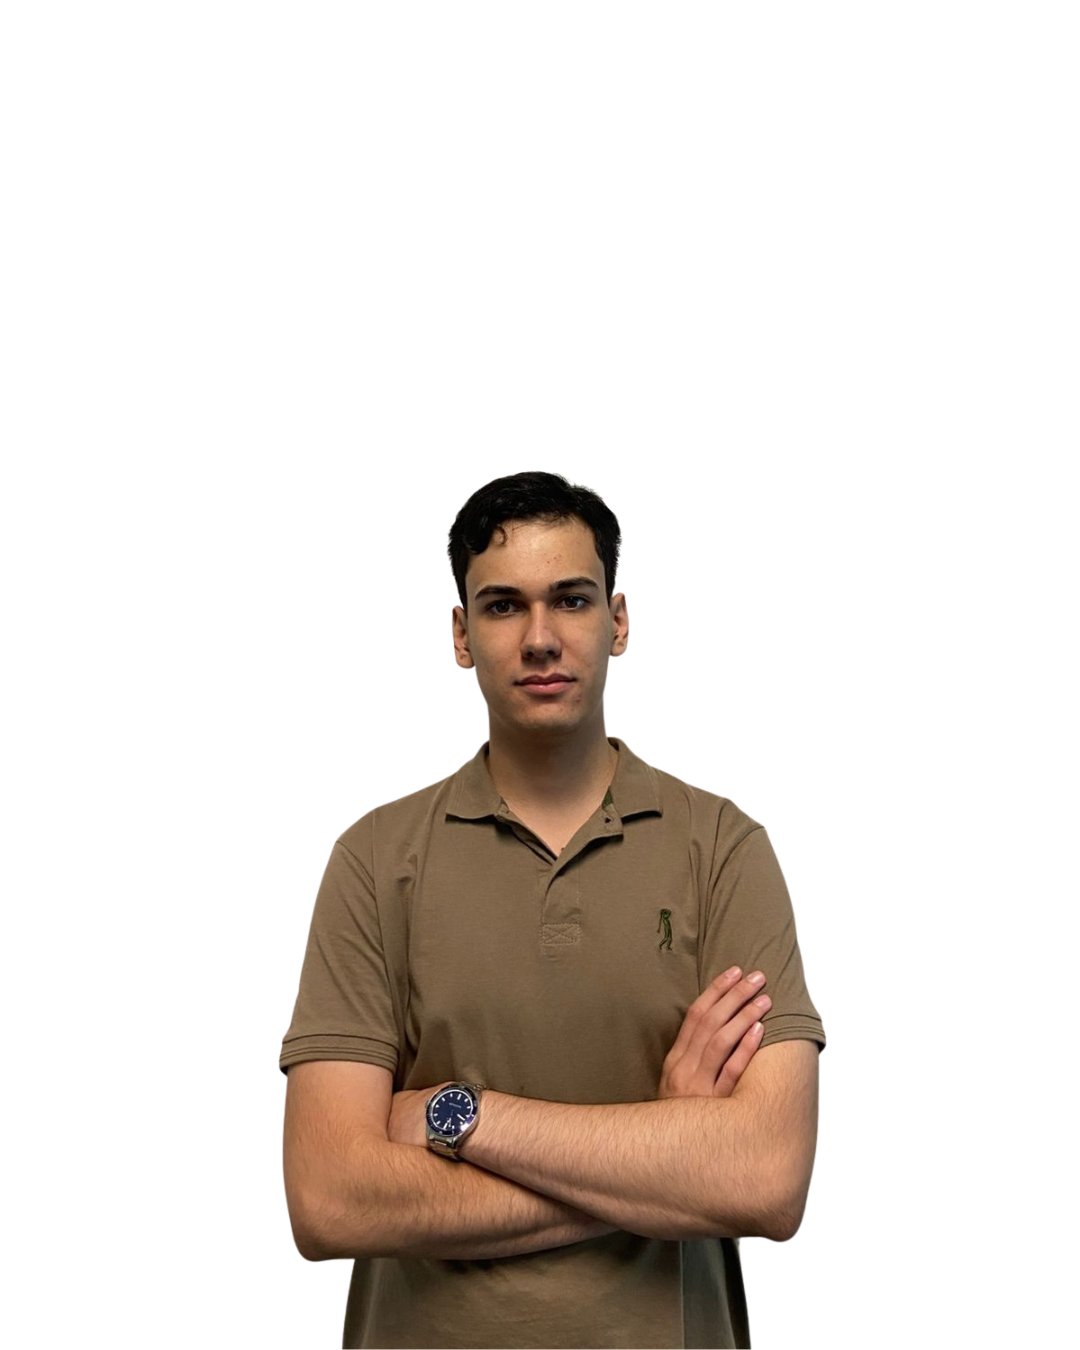
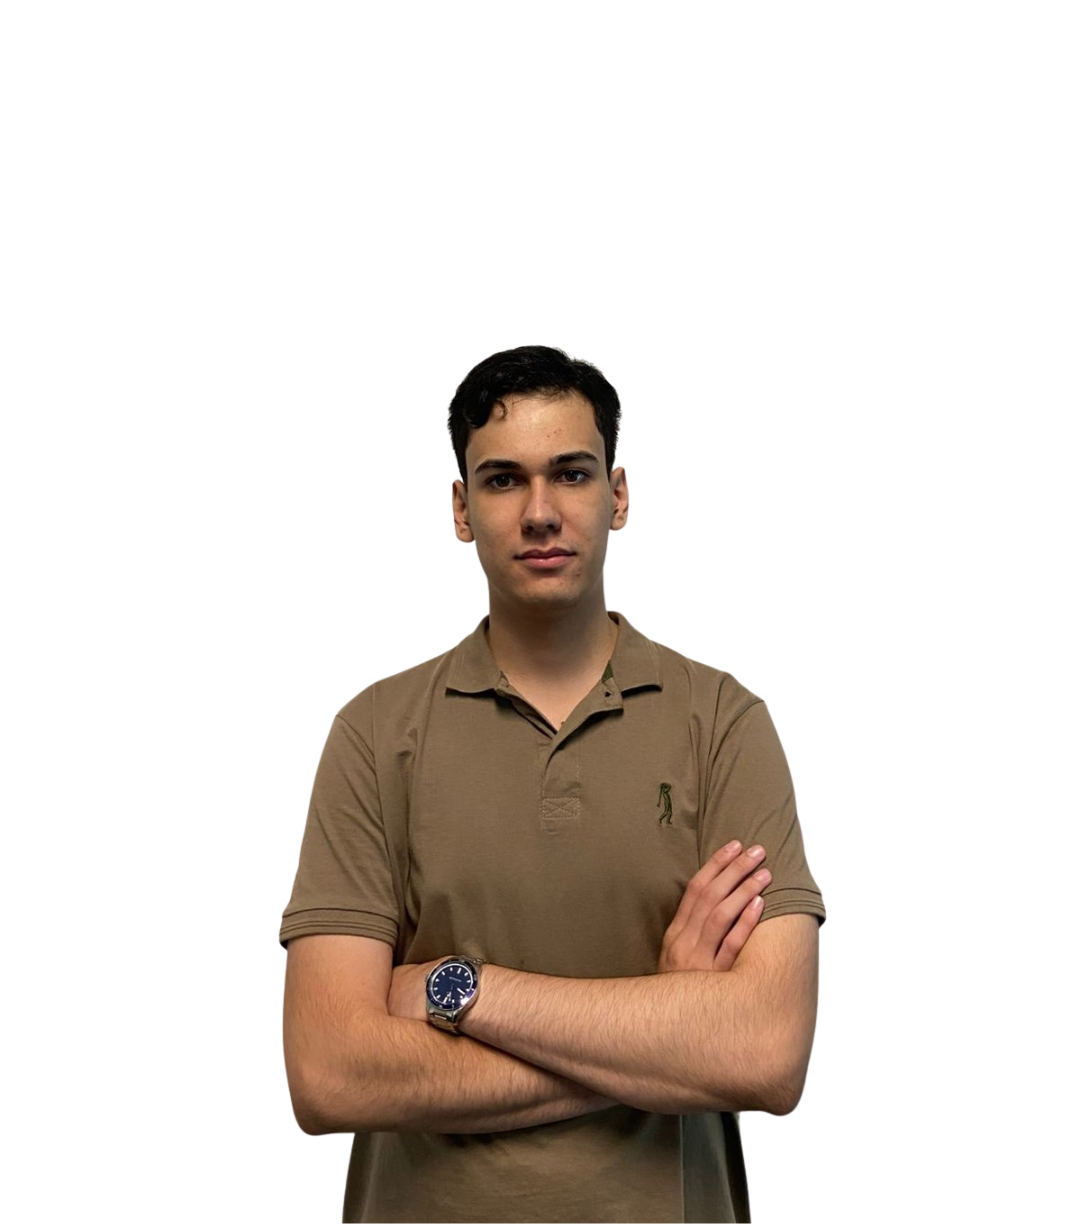
Correções

Changed region(s): [[0.2444, 0.2794, 0.7639, 0.9624]]

diff --git a/src/app/pages/home/home.html b/src/app/pages/home/home.html
@@ -4,7 +4,7 @@
         <a href="/" class="logo d-flex align-items-center">
             <!-- Uncomment the line below if you also wish to use an image logo -->
             <!-- <img src="assets/img/logo.png" alt=""> -->
-            <h1 class="sitename">ProDesk</h1>
+            <h1 class="sitename">ProDesk Coworking</h1>
         </a>
 
         <nav id="navmenu" class="navmenu">
@@ -390,7 +390,7 @@
                 <!-- Integrante 1 -->
                 <div class="col-xl-3 col-md-6 d-flex" data-aos="fade-up" data-aos-delay="100">
                     <div class="member">
-                        <img src="assets/img/abrao.png" class="img-fluid rounded-3" alt="Integrante 1">
+                        <img src="assets/img/abrao.png" class="img-fluid rounded-3" alt="Integrante 1" width="336px" height="420px">
                         <div class="member-info text-center mt-3">
                             <h4>Abrão Trevizan</h4>
                             <span>Gestor do Projeto</span>
@@ -416,7 +416,7 @@
                 <!-- Integrante 2 -->
                 <div class="col-xl-3 col-md-6 d-flex" data-aos="fade-up" data-aos-delay="400">
                     <div class="member">
-                        <img src="assets/Felipe.png" class="img-fluid rounded-3" alt="Integrante 4">
+                        <img src="assets/Felipe.png" class="img-fluid rounded-3" alt="Integrante 2" width="336px" height="420px">
                         <div class="member-info text-center mt-3">
                             <h4>Felipe Pontes</h4>
                             <span>Analista de Requisitos</span>
@@ -441,7 +441,7 @@
                 <!-- Integrante 3 -->
                 <div class="col-xl-3 col-md-6 d-flex" data-aos="fade-up" data-aos-delay="200">
                     <div class="member">
-                        <img src="assets/img/gabriel.png" class="img-fluid rounded-3" alt="Integrante 2">
+                        <img src="assets/gabriel.png" class="img-fluid rounded-3" alt="Integrante 3" width="336px" height="420px">
                         <div class="member-info text-center mt-3">
                             <h4>Gabriel Alesiunas</h4>
                             <span>Desenvolvedor Back End</span>
@@ -467,7 +467,7 @@
                 <!-- Integrante 4 -->
                 <div class="col-xl-3 col-md-6 d-flex" data-aos="fade-up" data-aos-delay="400">
                     <div class="member">
-                        <img src="assets/Henrique.png" class="img-fluid rounded-3" alt="Integrante 4">
+                        <img src="assets/Henrique.png" class="img-fluid rounded-3" alt="Integrante 4" width="336px" height="420px">
                         <div class="member-info text-center mt-3">
                             <h4>Henrique Albano</h4>
                             <span>Dev Front-End</span>
@@ -493,7 +493,7 @@
                 <!-- Integrante 5 -->
                 <div class="col-xl-3 col-md-6 d-flex" data-aos="fade-up" data-aos-delay="300">
                     <div class="member">
-                        <img src="assets/img/ryan.png" class="img-fluid rounded-3" alt="Integrante 3">
+                        <img src="assets/img/ryan.png" class="img-fluid rounded-3" alt="Integrante 5" width="336px" height="420px">
                         <div class="member-info text-center mt-3">
                             <h4>Ryan Rezani</h4>
                             <span>Design</span>

diff --git a/backend/server.js b/backend/server.js
@@ -4,7 +4,6 @@ const cors = require('cors');
 const bcrypt = require('bcrypt');
 const multer = require('multer');
 const path = require('path');
-
 const app = express();
 
 // Configurações CORS
@@ -196,19 +195,43 @@ app.put('/api/usuarios/:id/senha', (req, res) => {
 // ========================
 // Rotas de cartões
 // ========================
-app.post('/api/usuarios/:id/cartoes', (req, res) => {
+app.post('/api/usuarios/:id/cartoes', async (req, res) => {
   const { id } = req.params;
   const { numero, nome, validade, cvv } = req.body;
 
-  if (!numero || !nome || !validade || !cvv) return res.status(400).json({ error: 'Todos os campos do cartão são obrigatórios.' });
+  if (!numero || !nome || !validade || !cvv) {
+    return res.status(400).json({ error: 'Todos os campos do cartão são obrigatórios.' });
+  }
 
-  const query = 'INSERT INTO cartoes (usuario_id, numero, nome, validade, cvv) VALUES (?, ?, ?, ?, ?)';
-  db.query(query, [id, numero, nome, validade, cvv], (err, result) => {
-    if (err) return res.status(500).json({ error: 'Erro ao adicionar cartão.' });
-    res.status(201).json({ message: 'Cartão adicionado com sucesso!' });
-  });
+  try {
+    // 🔐 HASH (não reversível)
+    const numeroHash = await bcrypt.hash(numero, 10);
+    const nomeHash = await bcrypt.hash(nome, 10);
+
+    // ✅ Últimos 4 dígitos (pra exibir depois)
+    const ultimos4 = numero.slice(-4);
+
+    // ❌ NÃO salvar CVV
+    const query = `
+      INSERT INTO cartoes (usuario_id, numero_hash, nome_hash, validade, ultimos4)
+      VALUES (?, ?, ?, ?, ?)
+    `;
+
+    db.query(query, [id, numeroHash, nomeHash, validade, ultimos4], (err) => {
+      if (err) return res.status(500).json({ error: 'Erro ao adicionar cartão.' });
+
+      res.status(201).json({ message: 'Cartão adicionado com segurança!' });
+    });
+
+  } catch (error) {
+    res.status(500).json({ error: 'Erro ao processar dados do cartão.' });
+  }
 });
 
+
+// ========================
+// Remover cartão
+// ========================
 app.delete('/api/usuarios/:id/cartoes/:cartaoId', (req, res) => {
   const { id, cartaoId } = req.params;
 
@@ -216,16 +239,35 @@ app.delete('/api/usuarios/:id/cartoes/:cartaoId', (req, res) => {
   db.query(query, [cartaoId, id], (err, result) => {
     if (err) return res.status(500).json({ error: 'Erro ao remover cartão.' });
     if (result.affectedRows === 0) return res.status(404).json({ error: 'Cartão não encontrado.' });
+
     res.json({ message: 'Cartão removido com sucesso!' });
   });
 });
 
+
+// ========================
+// Listar cartões
+// ========================
 app.get('/api/usuarios/:id/cartoes', (req, res) => {
   const { id } = req.params;
-  const query = 'SELECT id, numero, nome AS titular, validade FROM cartoes WHERE usuario_id = ?';
+
+  const query = `
+    SELECT id, ultimos4, validade
+    FROM cartoes
+    WHERE usuario_id = ?
+  `;
+
   db.query(query, [id], (err, results) => {
     if (err) return res.status(500).json({ error: 'Erro ao buscar cartões.' });
-    res.json(results);
+
+    // 🔒 Retorno seguro (mascarado)
+    const cartoes = results.map(c => ({
+      id: c.id,
+      numero: `**** **** **** ${c.ultimos4}`,
+      validade: c.validade
+    }));
+
+    res.json(cartoes);
   });
 });
 

diff --git a/src/app/pages/locatorio/locatorio.html b/src/app/pages/locatorio/locatorio.html
@@ -1,7 +1,9 @@
 <link rel="stylesheet" href="https://cdnjs.cloudflare.com/ajax/libs/font-awesome/6.4.0/css/all.min.css" />
 <div class="page-container">
   <header class="menu">
-    <h1>ProDesk Coworking</h1>
+    <a routerLink="/locatorio" class="logo d-flex align-items-center">
+       <h1 class="sitename" >ProDesk Coworking</h1>
+    </a>
     <nav>
       <a routerLink="/locatorio" routerLinkActive="ativo">Espaços</a>
       <a routerLink="/reserva" routerLinkActive="ativo">Reservas</a>

diff --git a/src/app/pages/contato/contato.html b/src/app/pages/contato/contato.html
@@ -14,7 +14,9 @@
     <!-- MENU -->
     <div class="page-container">
         <header class="menu">
-            <h1>ProDesk Coworking</h1>
+            <a routerLink="/locatorio" class="logo d-flex align-items-center">
+       <h1 class="sitename" >ProDesk Coworking</h1>
+    </a>
             <nav>
                 <a routerLink="/locatorio" routerLinkActive="ativo">Espaços</a>
                 <a routerLink="/reserva" routerLinkActive="ativo">Reservas</a>

diff --git a/src/app/pages/reserva/reserva.html b/src/app/pages/reserva/reserva.html
@@ -13,7 +13,9 @@
   <div class="page-container">
     <!-- ====== HEADER ====== -->
     <header class="menu">
-      <h1>ProDesk Coworking</h1>
+      <a routerLink="/locatorio" class="logo d-flex align-items-center">
+       <h1 class="sitename" >ProDesk Coworking</h1>
+    </a>
       <nav>
         <a routerLink="/locatorio" routerLinkActive="ativo">Espaços</a>
         <a routerLink="/reserva" routerLinkActive="ativo">Reservas</a>

diff --git a/src/app/pages/cadastrar-espaco/cadastrar-espaco.html b/src/app/pages/cadastrar-espaco/cadastrar-espaco.html
@@ -9,7 +9,9 @@
   <div class="page-container">
     <!-- ====== HEADER ====== -->
     <header class="menu">
-      <h1>ProDesk Coworking</h1>
+      <a routerLink="/locatorio" class="logo d-flex align-items-center">
+       <h1 class="sitename" >ProDesk Coworking</h1>
+    </a>
       <nav>
         <a routerLink="/locatorio" routerLinkActive="ativo">Espaços</a>
         <a routerLink="/reserva" routerLinkActive="ativo">Reservas</a>

diff --git a/src/app/pages/perfil/perfil.html b/src/app/pages/perfil/perfil.html
@@ -2,7 +2,9 @@
 <!-- MENU SUPERIOR -->
 <div class="page-container">
   <header class="menu">
-    <h1>ProDesk Coworking</h1>
+    <a routerLink="/locatorio" class="logo d-flex align-items-center">
+       <h1 class="sitename" >ProDesk Coworking</h1>
+    </a>
     <nav>
       <a routerLink="/locatorio" routerLinkActive="ativo">Espaços</a>
       <a routerLink="/reserva" routerLinkActive="ativo">Reservas</a>

diff --git a/src/app/pages/dashboard/dashboard.html b/src/app/pages/dashboard/dashboard.html
@@ -1,6 +1,8 @@
 <div class="page-container">
 <header class="menu">
-    <h1>ProDesk Coworking</h1>
+    <a routerLink="/locatorio" class="logo d-flex align-items-center">
+       <h1 class="sitename" >ProDesk Coworking</h1>
+    </a>
     <nav>
       <a routerLink="/locatorio" routerLinkActive="ativo">Espaços</a>
       <a routerLink="/reserva" routerLinkActive="ativo">Reservas</a>

diff --git a/public/assets/css/main.css b/public/assets/css/main.css
@@ -583,7 +583,7 @@ h6 {
 section,
 .section {
   color: var(--default-color);
-  background-color: var(--background-color);
+  /* background-color: var(--background-color); */
   padding: 60px 0;
   scroll-margin-top: 90px;
   overflow: clip;

diff --git a/src/app/pages/dashboard/dashboard.css b/src/app/pages/dashboard/dashboard.css
@@ -39,6 +39,10 @@ body.modal-aberto {
   z-index: 1000;
 }
 
+.sitename {
+  color: white;
+}
+
 .menu h1 {
   font-size: 22px;
   font-weight: 600;

diff --git a/src/app/pages/locatorio/locatorio.css b/src/app/pages/locatorio/locatorio.css
@@ -39,6 +39,10 @@ body.modal-aberto {
   z-index: 1000;
 }
 
+.sitename {
+  color: white;
+}
+
 .menu h1 {
   font-size: 22px;
   font-weight: 600;

diff --git a/src/app/pages/cadastrar-espaco/cadastrar-espaco.css b/src/app/pages/cadastrar-espaco/cadastrar-espaco.css
@@ -39,6 +39,10 @@ body {
   font-weight: 600;
 }
 
+.sitename {
+  color: white;
+}
+
 .menu nav {
   display: flex;
   justify-content: center;
